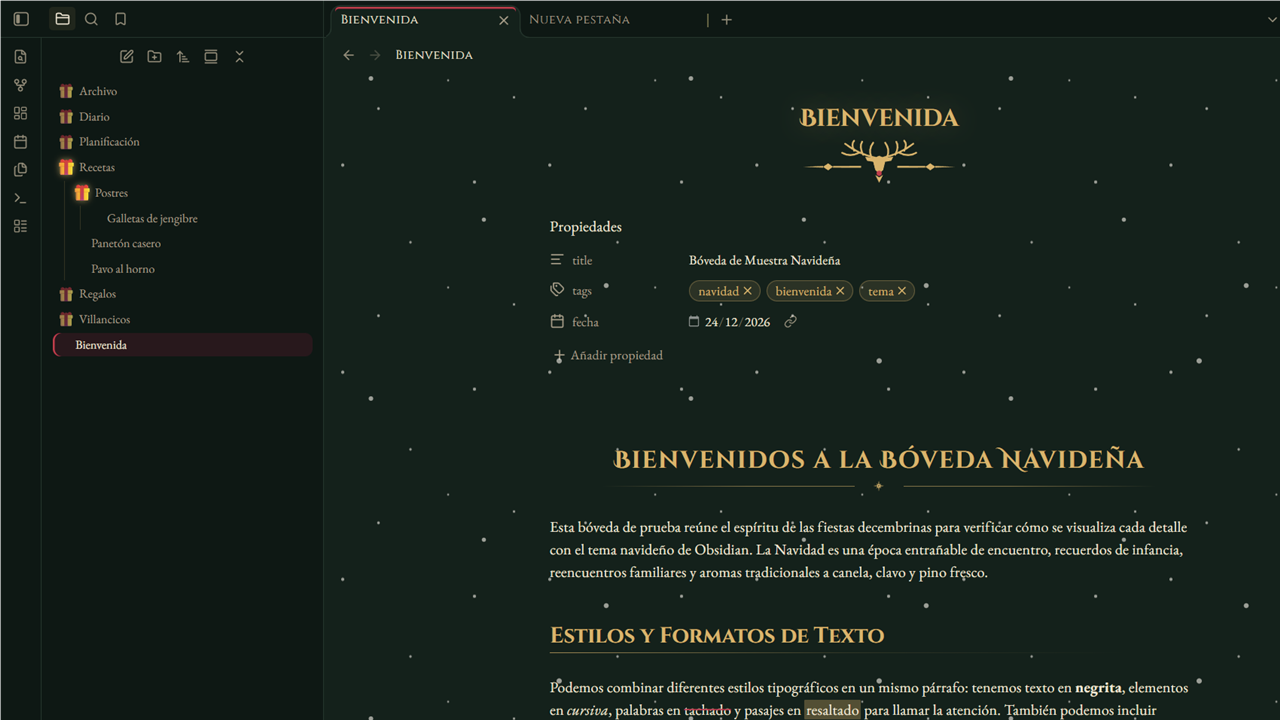
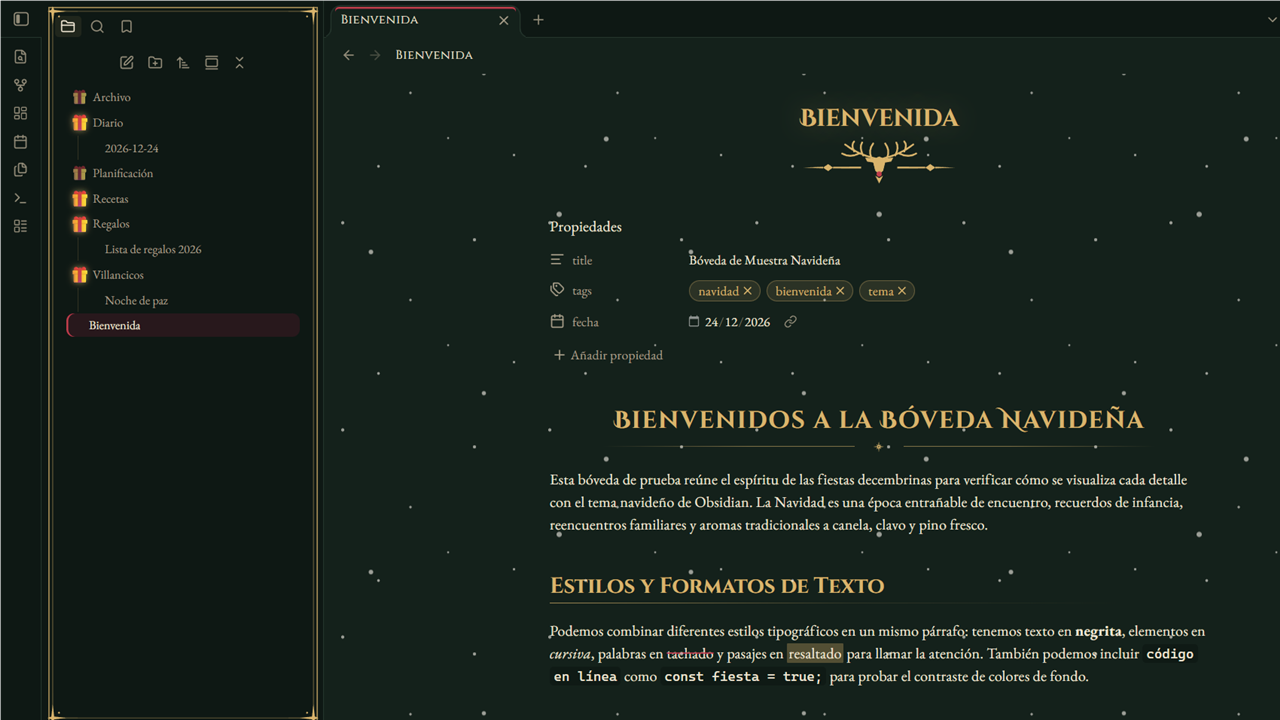
Add golden frames and fixes from review
Double gold line with star corners around sidebar panels, dialogs and
the quick switcher (toggle in Style Settings). Fix print styles, the
folder hover glow, the reading-view fold arrow over heading emojis and
hide the snow when reduced motion is requested.

diff --git a/theme.css b/theme.css
@@ -71,6 +71,10 @@ settings:
 -   id: mc-no-ornaments
     title: Disable heading and divider ornaments
     type: class-toggle
+-   id: mc-no-frames
+    title: Disable golden frames
+    description: The double gold line with star corners around sidebar panels and dialogs.
+    type: class-toggle
 -   id: mc-h-typography
     title: Typography
     type: heading
@@ -215,6 +219,7 @@ settings:
[4 lines of base64/hex data omitted]
   --color-base-00: #14211B;
   --color-base-05: #111D18;
   --color-base-10: #172720;
@@ -248,6 +253,7 @@ settings:
[4 lines of base64/hex data omitted]
   --color-base-00: #FBF6EC;
   --color-base-05: #F7F0E3;
   --color-base-10: #F4ECDD;
@@ -611,6 +617,49 @@ body:not(.mc-folder-native) .nav-folder-title:hover > .collapse-icon {
 
 .mod-root .workspace-tab-header.is-active .workspace-tab-header-inner {
   box-shadow: inset 0 2px 0 var(--mc-berry);
+}
+
+/* golden frames: each sidebar tab group becomes a framed card, and dialogs get the same frame
+   (nine-slice SVG: double gold line, a small star in each corner) */
+body:not(.mc-no-frames) .workspace-split.mod-sidedock .workspace-tabs {
+  position: relative;
+  width: auto;
+  margin: 6px;
+}
+
+body:not(.mc-no-frames) .workspace-split.mod-sidedock .workspace-tabs::after,
+body:not(.mc-no-frames) .modal::after,
+body:not(.mc-no-frames) .prompt::after {
+  content: "";
+  position: absolute;
+  inset: 0;
+  z-index: 6;
+  pointer-events: none;
+  border: 32px solid transparent;
+  border-image: var(--mc-frame) 32 stretch;
+}
+
+/* the group under the window buttons (frameless title bar): frame starts below its tab header */
+body:not(.mc-no-frames) .workspace-split.mod-sidedock .workspace-tabs.mod-top-right-space::after {
+  top: var(--header-height);
+}
+
+body:not(.mc-no-frames) .workspace-split.mod-sidedock .workspace-tab-header-container {
+  padding-inline: 10px;
+  padding-top: 4px;
+  border-bottom: none;
+}
+
+body:not(.mc-no-frames) .workspace-split.mod-sidedock .workspace-tab-container {
+  padding: 0 8px 8px;
+}
+
+body:not(.mc-no-frames) .workspace-split.mod-sidedock .workspace-leaf-content {
+  box-shadow: none;
+}
+
+body:not(.mc-no-frames) :is(.modal, .prompt) {
+  border-color: transparent;
 }
 
 .workspace-leaf-content[data-type="empty"] .empty-state-container::before {

diff --git a/src/theme.src.css b/src/theme.src.css
@@ -71,6 +71,10 @@ settings:
 -   id: mc-no-ornaments
     title: Disable heading and divider ornaments
     type: class-toggle
+-   id: mc-no-frames
+    title: Disable golden frames
+    description: The double gold line with star corners around sidebar panels and dialogs.
+    type: class-toggle
 -   id: mc-h-typography
     title: Typography
     type: heading
@@ -137,6 +141,7 @@ settings:
   --mc-emblem-reno: @@SVG:reno-emblema-nariz:#C0394B@@, @@SVG:reno-emblema:#D9B46C@@;
   --mc-emblem-acebo: @@SVG:acebo-bayas:#C0394B@@, @@SVG:acebo:#6FA57E@@;
   --mc-star: @@SVG:estrella:#D9B46C@@;
+  --mc-frame: @@SVG:marco:#D9B46C@@;
   --color-base-00: #14211B;
   --color-base-05: #111D18;
   --color-base-10: #172720;
@@ -170,6 +175,7 @@ settings:
   --mc-emblem-reno: @@SVG:reno-emblema-nariz:#A3233A@@, @@SVG:reno-emblema:#846020@@;
   --mc-emblem-acebo: @@SVG:acebo-bayas:#A3233A@@, @@SVG:acebo:#2F6146@@;
   --mc-star: @@SVG:estrella:#846020@@;
+  --mc-frame: @@SVG:marco:#846020@@;
   --color-base-00: #FBF6EC;
   --color-base-05: #F7F0E3;
   --color-base-10: #F4ECDD;
@@ -533,6 +539,49 @@ body:not(.mc-folder-native) .nav-folder-title:hover > .collapse-icon {
 
 .mod-root .workspace-tab-header.is-active .workspace-tab-header-inner {
   box-shadow: inset 0 2px 0 var(--mc-berry);
+}
+
+/* golden frames: each sidebar tab group becomes a framed card, and dialogs get the same frame
+   (nine-slice SVG: double gold line, a small star in each corner) */
+body:not(.mc-no-frames) .workspace-split.mod-sidedock .workspace-tabs {
+  position: relative;
+  width: auto;
+  margin: 6px;
+}
+
+body:not(.mc-no-frames) .workspace-split.mod-sidedock .workspace-tabs::after,
+body:not(.mc-no-frames) .modal::after,
+body:not(.mc-no-frames) .prompt::after {
+  content: "";
+  position: absolute;
+  inset: 0;
+  z-index: 6;
+  pointer-events: none;
+  border: 32px solid transparent;
+  border-image: var(--mc-frame) 32 stretch;
+}
+
+/* the group under the window buttons (frameless title bar): frame starts below its tab header */
+body:not(.mc-no-frames) .workspace-split.mod-sidedock .workspace-tabs.mod-top-right-space::after {
+  top: var(--header-height);
+}
+
+body:not(.mc-no-frames) .workspace-split.mod-sidedock .workspace-tab-header-container {
+  padding-inline: 10px;
+  padding-top: 4px;
+  border-bottom: none;
+}
+
+body:not(.mc-no-frames) .workspace-split.mod-sidedock .workspace-tab-container {
+  padding: 0 8px 8px;
+}
+
+body:not(.mc-no-frames) .workspace-split.mod-sidedock .workspace-leaf-content {
+  box-shadow: none;
+}
+
+body:not(.mc-no-frames) :is(.modal, .prompt) {
+  border-color: transparent;
 }
 
 .workspace-leaf-content[data-type="empty"] .empty-state-container::before {

diff --git a/README.md b/README.md
@@ -19,6 +19,7 @@ note title, gifts instead of folder arrows and gently falling snow.
 - **File explorer** — a 🎁 replaces the folder arrow (dimmed when closed, glowing when open), or a reindeer that
   stands up when the folder opens.
 - **Falling snow** over your notes; it never catches clicks and hides itself when your system asks to reduce motion.
+- **Golden frames** — a double gold line with star corners around the sidebar panels and dialogs.
 - **New tab** with the reindeer emblem.
 
 ## Settings
@@ -32,6 +33,7 @@ Install the [Style Settings](https://github.com/mgmeyers/obsidian-style-settings
 | Emblem under the note title: reindeer, holly or none | Reindeer |
 | Festive emojis on headings (🎄 H1, ⭐ H2, 🎁 H3) | Off |
 | Disable heading and divider ornaments | Off |
+| Disable golden frames | Off |
 | Playful Christmas font for titles | Off |
 | Gold, cranberry and holly colors | Theme palette |
 
